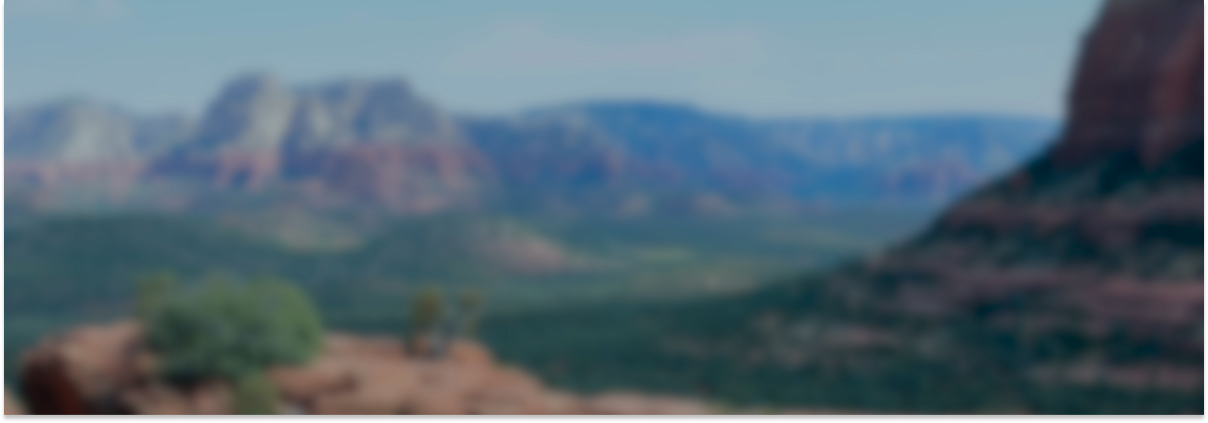
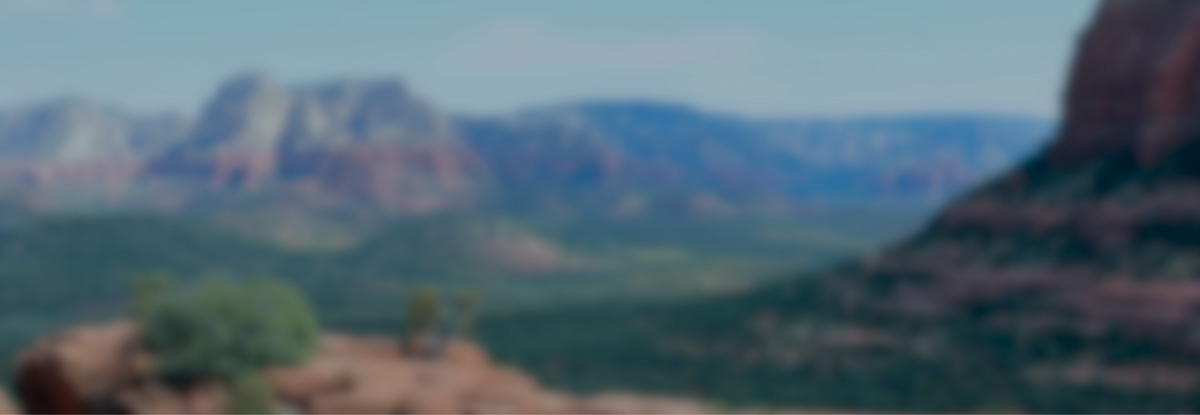
добавляет стили

diff --git a/index.html b/index.html
@@ -128,50 +128,49 @@
             в комфорте и уюте!
           </h2>
           <p class="services-main-description">
-            опытный персонал и качетсвенное обслуживание!
+            Опытный персонал и качетсвенное обслуживание!
           </p>
           <ul class="services-list">
             <li class="services-item">
               <h3 class="services-title">Жилье</h3>
               <p class="services-description">
-                рекомендуем пожить в настоящем мотеле, все как в кино!
+                Рекомендуем пожить в настоящем мотеле, все как в кино!
               </p>
             </li>
             <li class="services-item">
               <h3 class="services-title">Еда</h3>
               <p class="services-description">
-                всегда заказывайте топовый фиорменный бургер, вы не
+                Всегда заказывайте топовый фирменный бургер, вы не
                 разочаруетесь!
               </p>
             </li>
             <li class="services-item">
               <h3 class="services-title">Сувениры</h3>
               <p class="services-description">
-                не только китайского, но и местного производства
+                Не только китайского, но и настоящего местного производства
               </p>
             </li>
           </ul>
         </section>
 
-        <div class="search">
-          <section class="search-main">
-            <h2 class="search-main-title">Заинтерисовались?</h2>
-            <p class="search-main-discription">
-              Укажите предполагаемые даты поездки,<br />
-              и мы покажем вам лучшие предложения гостиниц в Седоне
-            </p>
-            <a class="search-main-link" href="#">поиск Гостиницы в Седоне</a>
-          </section>
-        </div>
-        <section class="newsletter">
+        <section class="search">
+          <h2 class="search-main-title">Заинтерисовались?</h2>
+          <p class="search-main-description">
+            Укажите предполагаемые даты поездки,<br />
+            и мы покажем вам лучшие предложения гостиниц в Седоне
+          </p>
+          <a class="search-main-link" href="#">поиск Гостиницы в Седоне</a>
+        </section>
+
+        <section class="newsletter newsletter-main">
           <h2 class="newsletter-title">Подпишитесь на рассылку</h2>
           <p class="newsletter-description">
-            только полезная информация и никакого спама,<br />
-            честное бойскаутское
+            Только полезная информация и никакого спама,<br />
+            честное бойскаутское!
           </p>
 
           <form
-            class="newsletter-input"
+            class="newsletter-form"
             action="https://echo.htmlacademy.ru"
             method="get"
           >
@@ -183,7 +182,7 @@
               id="newsletter-email"
               required
             />
-            <button class="button newsletter-button" type="submit">
+            <button class="button button blue newsletter-button" type="submit">
               подписаться
             </button>
           </form>

diff --git a/styles/styles.css b/styles/styles.css
@@ -186,6 +186,8 @@ body {
   font-size: 24px;
   line-height: 28px;
   text-align: center;
+  margin: 0 0 30px 0;
+  text-transform: uppercase;
 }
 
 .services-description {
@@ -193,15 +195,14 @@ body {
   font-size: 18px;
   line-height: 21px;
   text-align: center;
+  color: #333333;
 }
 
 .search {
   display: flex;
   flex-direction: column;
-  width: 1200px;
-  height: 406px;
   padding: 96px 304px;
-  gap: 10px;
+  align-items: center;
 }
 
 .search-main-title {
@@ -211,14 +212,16 @@ body {
   text-align: center;
   text-transform: uppercase;
   justify-content: center;
+  margin: 0 0 20px 0;
 }
 
-.search-main-discription {
+.search-main-description {
   font-weight: 400;
   font-size: 22px;
   line-height: 26px;
   text-align: center;
   justify-content: center;
+  margin: 0 0 54px 0;
 }
 
 .search-main-link {
@@ -233,7 +236,23 @@ body {
   color: #ffffff;
   align-items: center;
   padding: 8px 50px;
-  position: absolute;
+}
+
+.newsletter {
+  padding: 94px 258px 104px 258px;
+}
+.newsletter-main .newsletter-title {
+  color: #ffffff;
+}
+
+.newsletter-main .newsletter-description {
+  color: #ffffff;
+}
+
+.newsletter-main {
+  background-image: url(../image/background/Subscribe-background.jpg);
+  background-repeat: no-repeat;
+  background-size: cover;
 }
 
 .newsletter-title {
@@ -243,6 +262,7 @@ body {
   text-align: center;
   text-transform: uppercase;
   justify-content: center;
+  margin: 0 0 20px 0;
 }
 
 .newsletter-description {
@@ -250,31 +270,32 @@ body {
   font-size: 22px;
   line-height: 26px;
   text-align: center;
+  margin: 0 0 54px 0;
+}
+
+.newsletter-form {
+  display: flex;
 }
 
 .newsletter-input-email {
   font-family: inherit;
-  align-items: center;
-  padding: 12px 20px;
-  gap: 260px;
-  width: 452px;
-  height: 52px;
-  border-radius: 4px 0px 0px 4px;
-  background-color: #f2f2f2;
-}
-
-.placeholder {
-  font-weight: 400;
   font-size: 18px;
   line-height: 24px;
+  align-items: center;
+  padding: 12px 20px;
+  min-width: 400px;
+  flex-grow: 1;
+  border: none;
+  border-radius: 4px 0 0 4px;
+  background-color: #f2f2f2;
+  min-height: 100%;
 }
 
-.button newsletter-button {
-  font-weight: 700;
+.newsletter-button {
   font-size: 20px;
   line-height: 36px;
-  background-color: #82b3d3;
-  border-radius: 0px 4px 4px 0px;
+  min-width: 232px;
+  border-radius: 0 4px 4px 0;
 }
 
 .advantages-list {
@@ -326,6 +347,8 @@ body {
   font-weight: 700;
   font-size: 60px;
   line-height: 78px;
+  margin: 0 0 8px 0;
+  color: #ffffff;
 }
 
 .services-list {
@@ -489,4 +512,11 @@ body {
 .pagination-divider {
   color: #000000;
   background-color: #ffffff;
+}
+
+.main-header {
+  background-image: url("../image/background/filter-background.jpg");
+  background-repeat: no-repeat;
+  background-size: cover;
+  padding: 35px 70px 70px 70px;
 }

diff --git a/catalog.html b/catalog.html
@@ -328,22 +328,28 @@
             </li>
           </ul>
         </section>
-        <section class="newsletter newsletter-inner">
-          <h2 class="newsletter-title">подпишитесь на рассылку</h2>
+        <section class="newsletter">
+          <h2 class="newsletter-title">Подпишитесь на рассылку</h2>
           <p class="newsletter-description">
-            только полезная информация, честное бойскаутское
+            Только полезная информация и никакого спама,<br />
+            честное бойскаутское!
           </p>
-          <form class="newsletter-form">
+
+          <form
+            class="newsletter-input"
+            action="https://echo.htmlacademy.ru"
+            method="get"
+          >
             <input
-              class="newsletter-form-email"
-              placeholder="ваш email"
+              class="newsletter-input-email"
+              placeholder="Ваш e-mail"
               type="email"
               name="newsletter-email"
               id="newsletter-email"
               required
             />
-            <button class="button newsletter-button" type="submit">
-              Подписаться
+            <button class="button button blue newsletter-button" type="submit">
+              подписаться
             </button>
           </form>
         </section>
